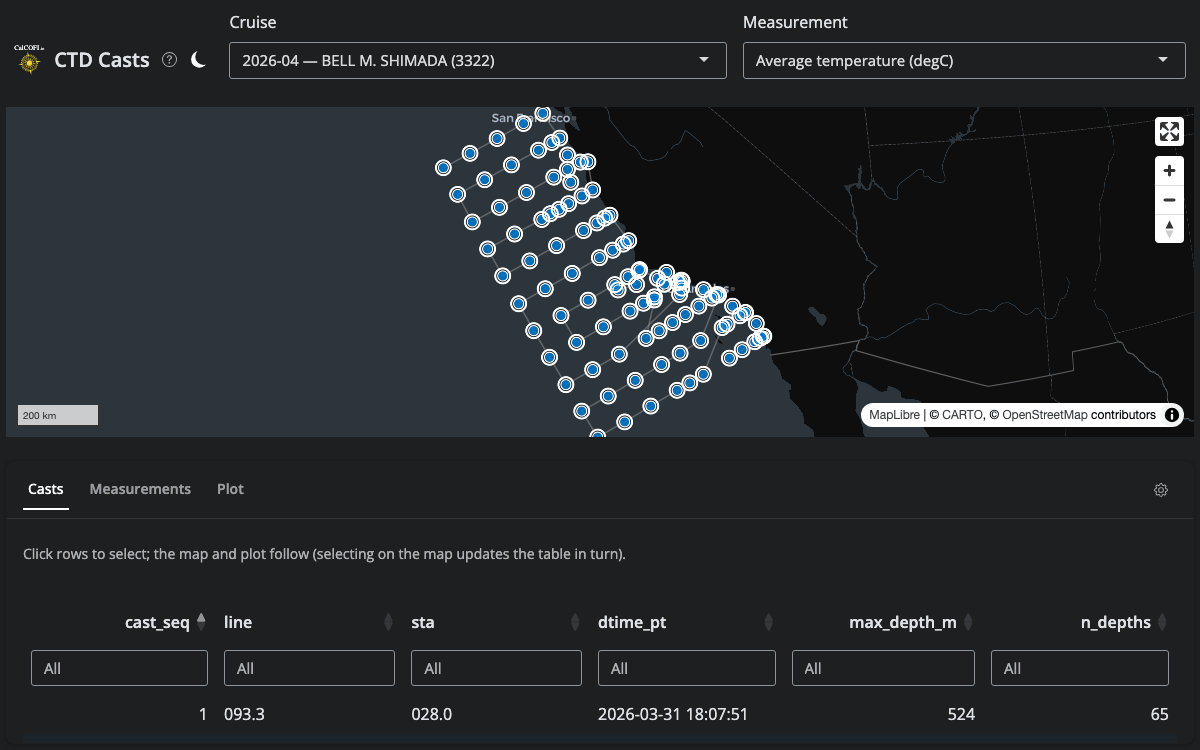
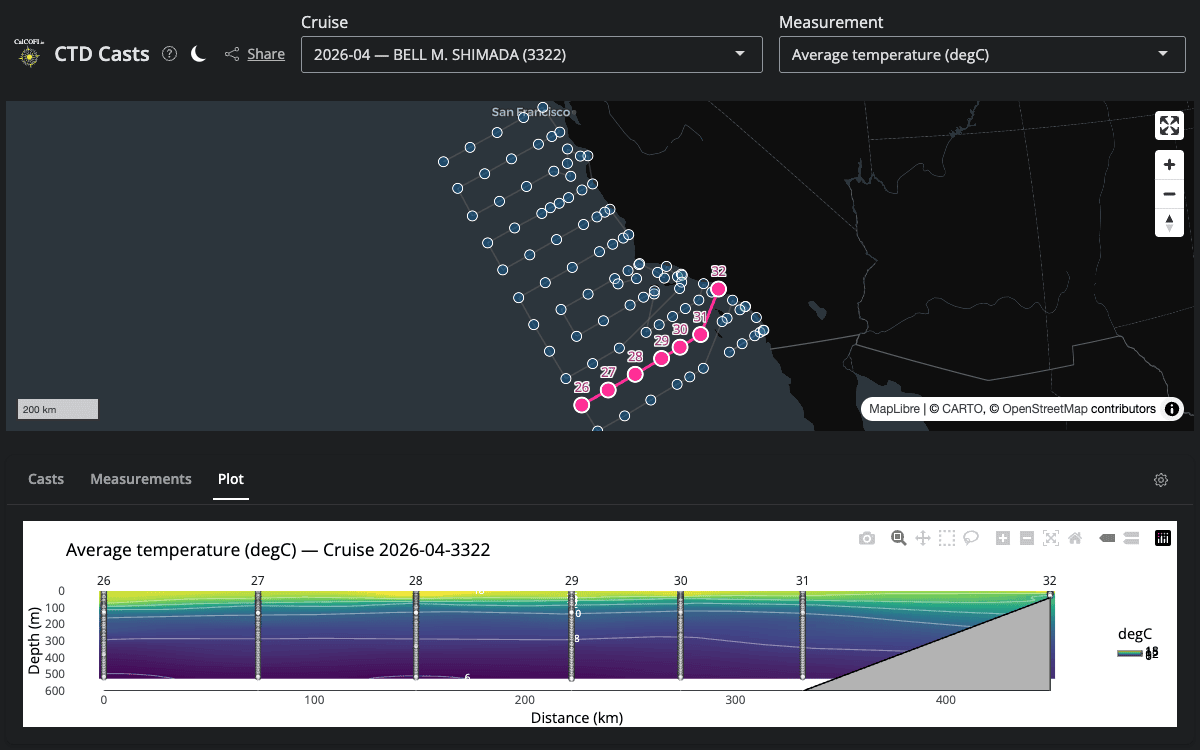
Move screenshot recipes to _data/shots.yml; add CTD transect recipe
- relocate shots.yml -> _data/shots.yml (Jekyll data dir; not published)
- add a CTD app recipe: a "Share" bookmark URL that reopens cruise 2026-04
  with the casts 26->32 transect, temperature, Plot tab and 600 m depth cap
- refresh images/ctd-viz.png to that interpolated-temperature transect view
- point scripts/shots.sh + README at _data/shots.yml; exclude scripts/ from build

diff --git a/README.md b/README.md
@@ -30,7 +30,7 @@ bundle exec jekyll serve
 
 Card images live in `images/<key>.png` (1200×750, top-cropped to 16:10 by
 CSS). Cards whose app shows a welcome modal or guided tour on load — or needs
-a long cold-start wait — have a recipe in [`shots.yml`](shots.yml); regenerate
+a long cold-start wait — have a recipe in [`_data/shots.yml`](_data/shots.yml); regenerate
 them reproducibly with [`scripts/shots.sh`](scripts/shots.sh):
 
 ```bash
@@ -38,7 +38,7 @@ them reproducibly with [`scripts/shots.sh`](scripts/shots.sh):
 pipx install shot-scraper && shot-scraper install   # Playwright driver
 brew install pngquant                                # or apt, etc.
 
-scripts/shots.sh               # (re)capture every card in shots.yml
+scripts/shots.sh               # (re)capture every card in _data/shots.yml
 scripts/shots.sh db-viz-hex    # just one (arg matches the image name)
 ```
 